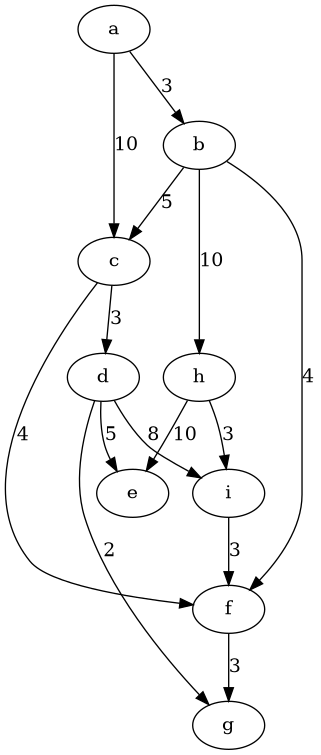
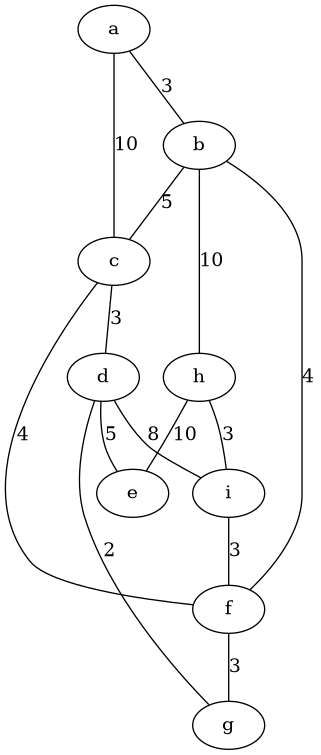
implemented prim's algorithm

diff --git a/src/prim.py b/src/prim.py
@@ -1,8 +1,10 @@
 import sys
 import pydot
 from typing import TypeAlias
+import heapq
 
 NodesListType: TypeAlias = list[str]
+#[src_node : (dst_node, edge_weight) ]
 EdgeListType: TypeAlias = dict[str, list[tuple[str, float]]]
 
 def fill_nodes_list(graph: pydot.Dot, nodes: NodesListType):
@@ -40,14 +42,57 @@ def generate_graph(graph: pydot.Dot) -> tuple[list, dict]:
     return ret_nodes, ret_edge_list
 
 
-# def mst_prim(nodes: NodesListType, weighted_edge_list: EdgeListType)
+def mst_prim(nodes: NodesListType, weighted_edge_list: EdgeListType) -> EdgeListType:
+    s = nodes[0] 
+    
+    # let b in work_queue, 
+    # b[0] = is the weight of the edge
+    # b[1] is the source of the edge
+    # b[2] is the destination of the edge
+    work_queue: list[tuple[float, str ,str]] = []
+    mst: EdgeListType = {}
+    used_nodes = set()
+    for e in weighted_edge_list[s]:
+        work_queue.append((e[1], s, e[0]))
+    heapq.heapify(work_queue)
+    mst[s] = []
+    used_nodes.add(s)
+    while work_queue:
+        last = heapq.heappop(work_queue)
+        if last[2] not in used_nodes:
+            if mst.get(last[1]) == None:
+                mst[last[1]] = []
+            mst[last[1]].append((last[2], last[0]))
+        used_nodes.add(last[2])
+        if not weighted_edge_list.get(last[2]) == None:
+            for e in weighted_edge_list[last[2]]:
+                if e[0] not in used_nodes:
+                    work_queue.append((e[1], last[2], e[0]))
+        heapq.heapify(work_queue)
+    return mst
+
+def export_graph_from_edgelist(edgelist: EdgeListType) -> pydot.Dot:
+    export_graph = pydot.Dot("output_graph", graph_type="graph")
+    for (s, edge_weight_list) in edgelist.items():
+        for e in edge_weight_list:
+            str_expression = list("\"")
+            str_expression.append(str(e[1]))
+            str_expression.append("\"")
+            export_graph.add_edge(pydot.Edge(s, e[0], weight=e[1], label=''.join(str_expression)))
+            
+    return export_graph
+
+
 if __name__ == "__main__":
     arquivo = sys.argv[1]
     graph = pydot.graph_from_dot_file(arquivo).pop()
     nodes: NodesListType
-    #edge_list["a"] returns a the adjacency list of the node "a" with the weight for each given edge
     edge_list: EdgeListType
     nodes, edge_list = generate_graph(graph) 
-    print(nodes)
-    for (k, v) in edge_list.items():
+    minimum_spanning_tree = mst_prim(nodes, edge_list)
+    exportgraph = export_graph_from_edgelist(minimum_spanning_tree)
+    nome_arquivo: str = sys.argv[1][:sys.argv[1].rindex(".")]
+    exportgraph.write(nome_arquivo + "mst.dot")
+    for (k, v) in minimum_spanning_tree.items():
         print(str(k) + ": " + str(v))
+    
